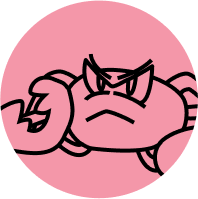
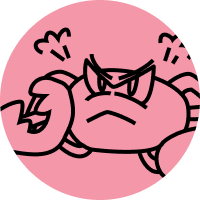
displaying curved words now uses less code. Reorganized subemotions file in correct order, added 2 slightly updated images for student home

diff --git a/client/src/data/subEmotions.js b/client/src/data/subEmotions.js
@@ -41,29 +41,6 @@ const subEmotionInfo = [
         ]
     },
     {
-        emotion: "Sad",
-        eImage: sadImg,
-        wheelImg: sadWheel,
-        subEmotions: [
-            "Guilty",
-            "Sad",
-            "Disappointed",
-            "Ashamed",
-            "Hurt",
-            "Lonely"                
-        ],
-        rotationList: [
-            "rotate-[8deg]",
-            "rotate-[0deg]",
-            "-rotate-[8deg]"
-        ],
-        translateList: [
-            "-translate-y-[0.2rem]",
-            "-translate-y-[0.1rem]",
-            "-translate-y-[0.2rem]",
-        ]
-    },
-    {
         emotion: "Nervous",
         eImage: anxiousImg,
         wheelImg: anxiousWheel,
@@ -92,6 +69,29 @@ const subEmotionInfo = [
             "-translate-y-[0.2rem]",
             "-translate-y-[0.5rem]",
             "-translate-y-[1.1rem]",
+        ]
+    },
+    {
+        emotion: "Sad",
+        eImage: sadImg,
+        wheelImg: sadWheel,
+        subEmotions: [
+            "Guilty",
+            "Sad",
+            "Disappointed",
+            "Ashamed",
+            "Hurt",
+            "Lonely"                
+        ],
+        rotationList: [
+            "rotate-[8deg]",
+            "rotate-[0deg]",
+            "-rotate-[8deg]"
+        ],
+        translateList: [
+            "-translate-y-[0.2rem]",
+            "-translate-y-[0.1rem]",
+            "-translate-y-[0.2rem]",
         ]
     },
     {
@@ -182,3 +182,174 @@ const subEmotionInfo = [
 ]
 
 export default subEmotionInfo
+
+
+
+// const subEmotionInfo = [
+//     {
+//         emotion: "Proud",
+//         eImage: proudImg,
+//         wheelImg: proudWheel,
+//         subEmotions: [
+//             "Confident",
+//             "Ambitious",
+//             "Determined",
+//             "Proud",
+//             "Secure",
+//             "Excited"                
+//         ],
+//         rotationList: [
+//             "rotate-[18deg]",
+//             "rotate-[8deg]",
+//             "rotate-[0deg]",
+//             "-rotate-[8deg]",
+//             "-rotate-[18deg]",
+//         ],
+//         translateList: [
+//             "-translate-y-[0.5rem]",
+//             "-translate-y-[0.2rem]",
+//             "-translate-y-[0.1rem]",
+//             "-translate-y-[0.2rem]",
+//             "-translate-y-[0.5rem]",
+//         ]
+//     },
+//     {
+//         emotion: "Sad",
+//         eImage: sadImg,
+//         wheelImg: sadWheel,
+//         subEmotions: [
+//             "Guilty",
+//             "Sad",
+//             "Disappointed",
+//             "Ashamed",
+//             "Hurt",
+//             "Lonely"                
+//         ],
+//         rotationList: [
+//             "rotate-[8deg]",
+//             "rotate-[0deg]",
+//             "-rotate-[8deg]"
+//         ],
+//         translateList: [
+//             "-translate-y-[0.2rem]",
+//             "-translate-y-[0.1rem]",
+//             "-translate-y-[0.2rem]",
+//         ]
+//     },
+//     {
+//         emotion: "Nervous",
+//         eImage: anxiousImg,
+//         wheelImg: anxiousWheel,
+//         subEmotions: [
+//             "Pressured",
+//             "Overwhelmed",
+//             "Worried",
+//             "Anxious",
+//             "Confused",
+//             "Embarrassed"                
+//         ],
+//         rotationList: [
+//             "rotate-[28deg]",
+//             "rotate-[18deg]",
+//             "rotate-[8deg]",
+//             "rotate-[0deg]",
+//             "-rotate-[8deg]",
+//             "-rotate-[18deg]",
+//             "-rotate-[28deg]"
+//         ],
+//         translateList: [
+//             "-translate-y-[1.1rem]",
+//             "-translate-y-[0.5rem]",
+//             "-translate-y-[0.2rem]",
+//             "-translate-y-[0.1rem]",
+//             "-translate-y-[0.2rem]",
+//             "-translate-y-[0.5rem]",
+//             "-translate-y-[1.1rem]",
+//         ]
+//     },
+//     {
+//         emotion: "Happy",
+//         eImage: happyImg,
+//         wheelImg: happyWheel,
+//         subEmotions: [
+//             "Glad",
+//             "Thoughtful",
+//             "Peaceful",
+//             "Content",
+//             "Hopeful",
+//             "Grateful"                
+//         ],
+//         rotationList: [
+//             "rotate-[18deg]",
+//             "rotate-[8deg]",
+//             "rotate-[0deg]",
+//             "-rotate-[8deg]",
+//             "-rotate-[18deg]",
+//         ],
+//         translateList: [
+//             "-translate-y-[0.5rem]",
+//             "-translate-y-[0.2rem]",
+//             "translate-y-[0rem]",
+//             "-translate-y-[0.2rem]",
+//             "-translate-y-[0.5rem]",
+//         ]
+//     },
+//     {
+//         emotion: "Scared",
+//         eImage: scaredImg,
+//         wheelImg: scaredWheel,
+//         subEmotions: [
+//             "Scared",
+//             "Rejected",
+//             "Intimidated",
+//             "Helpless",
+//             "Threatened",
+//             "Insecure"                
+//         ],
+//         rotationList: [
+//             "rotate-[28deg]",
+//             "rotate-[18deg]",
+//             "rotate-[8deg]",
+//             "rotate-[0deg]",
+//             "-rotate-[8deg]",
+//             "-rotate-[18deg]",
+//             "-rotate-[28deg]"
+//         ],
+//         translateList: [
+//             "-translate-y-[0.5rem]",
+//             "-translate-y-[0.2rem]",
+//             "translate-y-[0rem]",
+//             "translate-y-[0rem]",
+//             "-translate-y-[0.2rem]",
+//             "-translate-y-[0.5rem]",
+//         ]
+
+//     },
+//     {
+//         emotion: "Angry",
+//         eImage: angryImg,
+//         wheelImg: angryWheel,
+//         subEmotions: [
+//             "Jealous",
+//             "Frustrated",
+//             "Annoyed",
+//             "Angry",
+//             "Grumpy",
+//             "Disgusted"                
+//         ],
+//         rotationList: [
+//             "rotate-[18deg]",
+//             "rotate-[8deg]",
+//             "rotate-[0deg]",
+//             "-rotate-[8deg]",
+//             "-rotate-[18deg]",
+//         ],
+//         translateList: [
+//             "-translate-y-[0.5rem]",
+//             "-translate-y-[0.2rem]",
+//             "translate-y-[0rem]",
+//             "-translate-y-[0.2rem]",
+//             "-translate-y-[0.5rem]",
+//         ]
+//     },
+// ]

diff --git a/client/src/pages/StudentHome.jsx b/client/src/pages/StudentHome.jsx
@@ -63,6 +63,12 @@ const StudentHome = () => {
     }
   };
 
+  const chunkedData = [];
+  const chunkSize = 3;
+  for (let i = 0; i < subEmotionInfo.length; i += chunkSize) {
+    chunkedData.push(subEmotionInfo.slice(i, i + chunkSize));
+  }
+
   useEffect(() => {
     checkTimeOfDay();
     console.log("student data:", userData);
@@ -104,54 +110,20 @@ const StudentHome = () => {
             How are you feeling?
           </h2>
           <div className="">
-            {/* first row */}
-            <div className="w-screen max-w-lg flex justify-between my-14">
-              <CurvedWords
-                emotion="Proud"
-                image={proudImg}
-                rotationList={subEmotionInfo[0].rotationList}
-                translateList={subEmotionInfo[0].translateList}
-                handleEmotion={handleEmotion}
-              />
-              <CurvedWords
-                emotion="Nervous"
-                image={anxiousImg}
-                rotationList={subEmotionInfo[2].rotationList}
-                translateList={subEmotionInfo[2].translateList}
-                handleEmotion={handleEmotion}
-              />
-              <CurvedWords
-                emotion="Sad"
-                image={sadImg}
-                rotationList={subEmotionInfo[1].rotationList}
-                translateList={subEmotionInfo[1].translateList}
-                handleEmotion={handleEmotion}
-              />
-            </div>
-            {/* second row */}
-            <div className="w-screen max-w-lg flex justify-between my-14">
-              <CurvedWords
-                emotion="Happy"
-                image={happyImg}
-                rotationList={subEmotionInfo[3].rotationList}
-                translateList={subEmotionInfo[3].translateList}
-                handleEmotion={handleEmotion}
-              />
-              <CurvedWords
-                emotion="Scared"
-                image={scaredImg}
-                rotationList={subEmotionInfo[4].rotationList}
-                translateList={subEmotionInfo[4].translateList}
-                handleEmotion={handleEmotion}
-              />
-              <CurvedWords
-                emotion="Angry"
-                image={angryImg}
-                rotationList={subEmotionInfo[5].rotationList}
-                translateList={subEmotionInfo[5].translateList}
-                handleEmotion={handleEmotion}
-              />
-            </div>
+            {chunkedData.map((chunk, index) => (
+                <div key={index} className="w-screen max-w-lg flex justify-between my-14">
+                  {chunk.map((emotionInfo, idx) => (
+                    <CurvedWords
+                      key={idx}
+                      emotion={emotionInfo.emotion}
+                      image={emotionInfo.eImage}
+                      rotationList={emotionInfo.rotationList}
+                      translateList={emotionInfo.translateList}
+                      handleEmotion={handleEmotion}
+                    />
+                  ))}
+                </div>
+              ))}
           </div>
         </div>
       </div>
@@ -160,53 +132,3 @@ const StudentHome = () => {
 };
 
 export default StudentHome;
-
-// import { useEffect, useState } from "react";
-// import { useNavigate } from "react-router-dom";
-// import { useCookies } from "react-cookie";
-// import axios from "axios";
-// import { ToastContainer, toast } from "react-toastify";
-
-// const StudentHome = () => {
-//   const navigate = useNavigate();
-//   const [cookies, removeCookie] = useCookies([]);
-//   const [username, setUsername] = useState("");
-//   // useEffect(() => {
-//   //   const verifyCookie = async () => {
-//   //     if (!cookies.token) {
-//   //       navigate("/login");
-//   //     }
-//   //     const { data } = await axios.post(
-//   //       "http://localhost:3001",
-//   //       {},
-//   //       { withCredentials: true }
-//   //     );
-//   //     const { status, user } = data;
-//   //     setUsername(user);
-//   //     return status
-//   //       ? toast(`Hello ${user}`, {
-//   //           position: "top-right",
-//   //         })
-//   //       : (removeCookie("token"), navigate("/login"));
-//   //   };
-//   //   verifyCookie();
-//   // }, [cookies, navigate, removeCookie]);
-//   const Logout = () => {
-//     removeCookie("token");
-//     navigate("/login");
-//   };
-//   return (
-//     <>
-//       <div className="home_page">
-//         <h4>
-//           {" "}
-//           Welcome <span>{username}</span>
-//         </h4>
-//         <button onClick={}>LOGOUT</button>
-//       </div>
-//       <ToastContainer />
-//     </>
-//   );
-// };
-
-// export default StudentHome;
